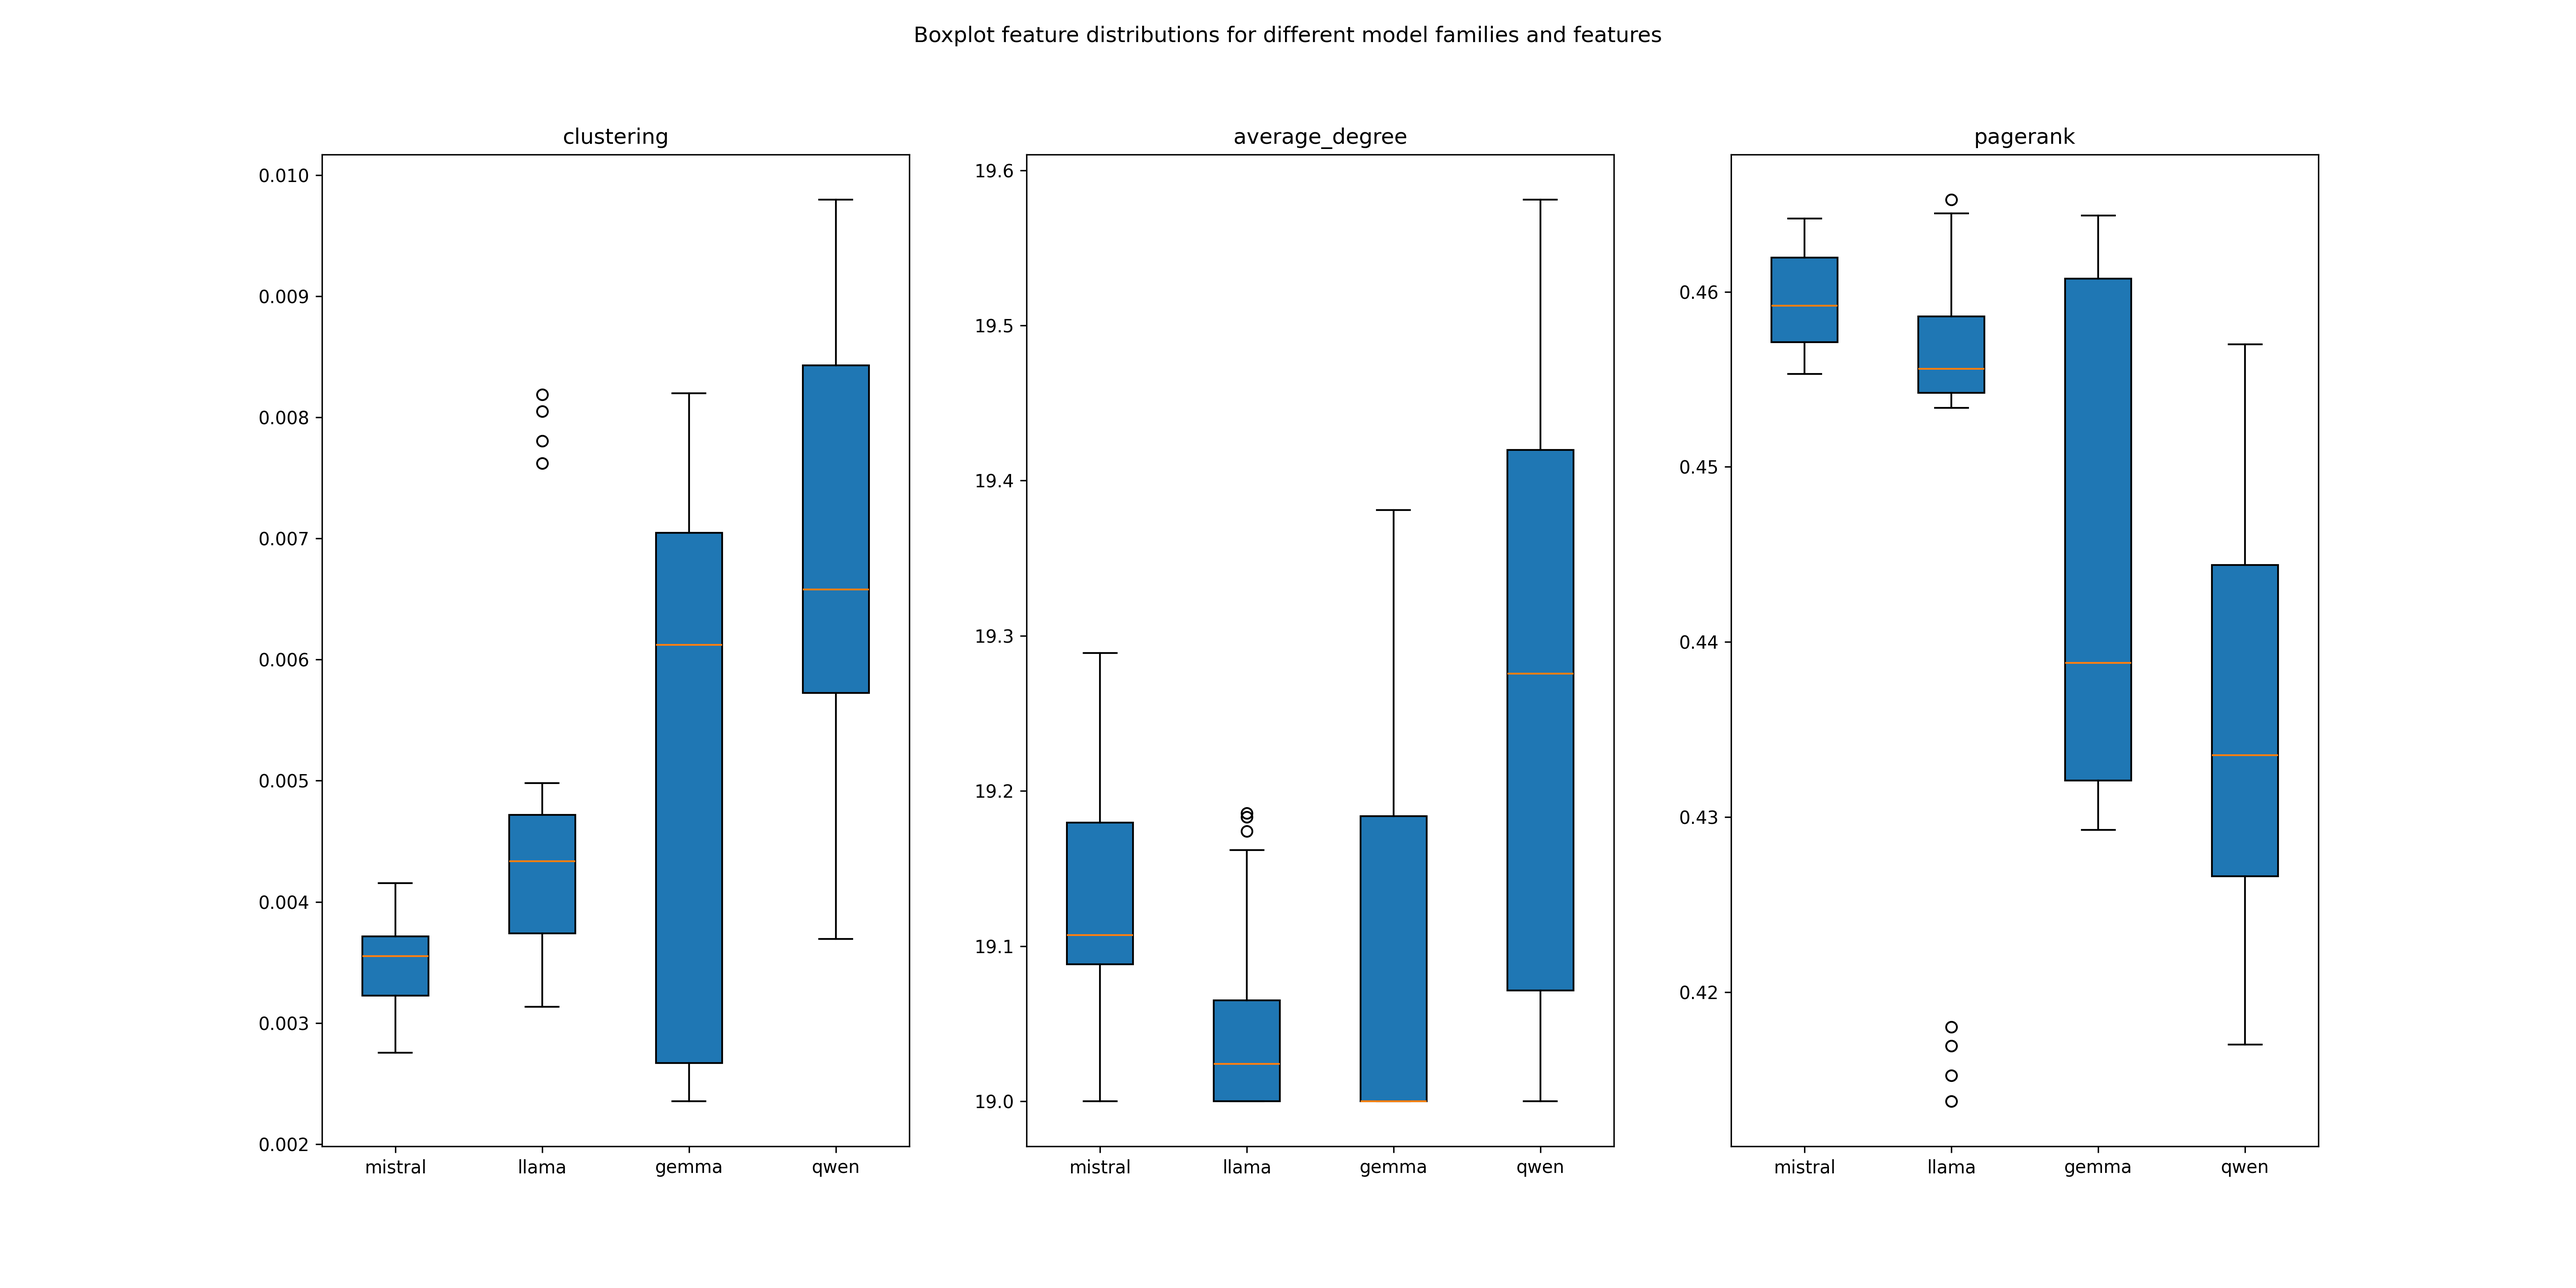
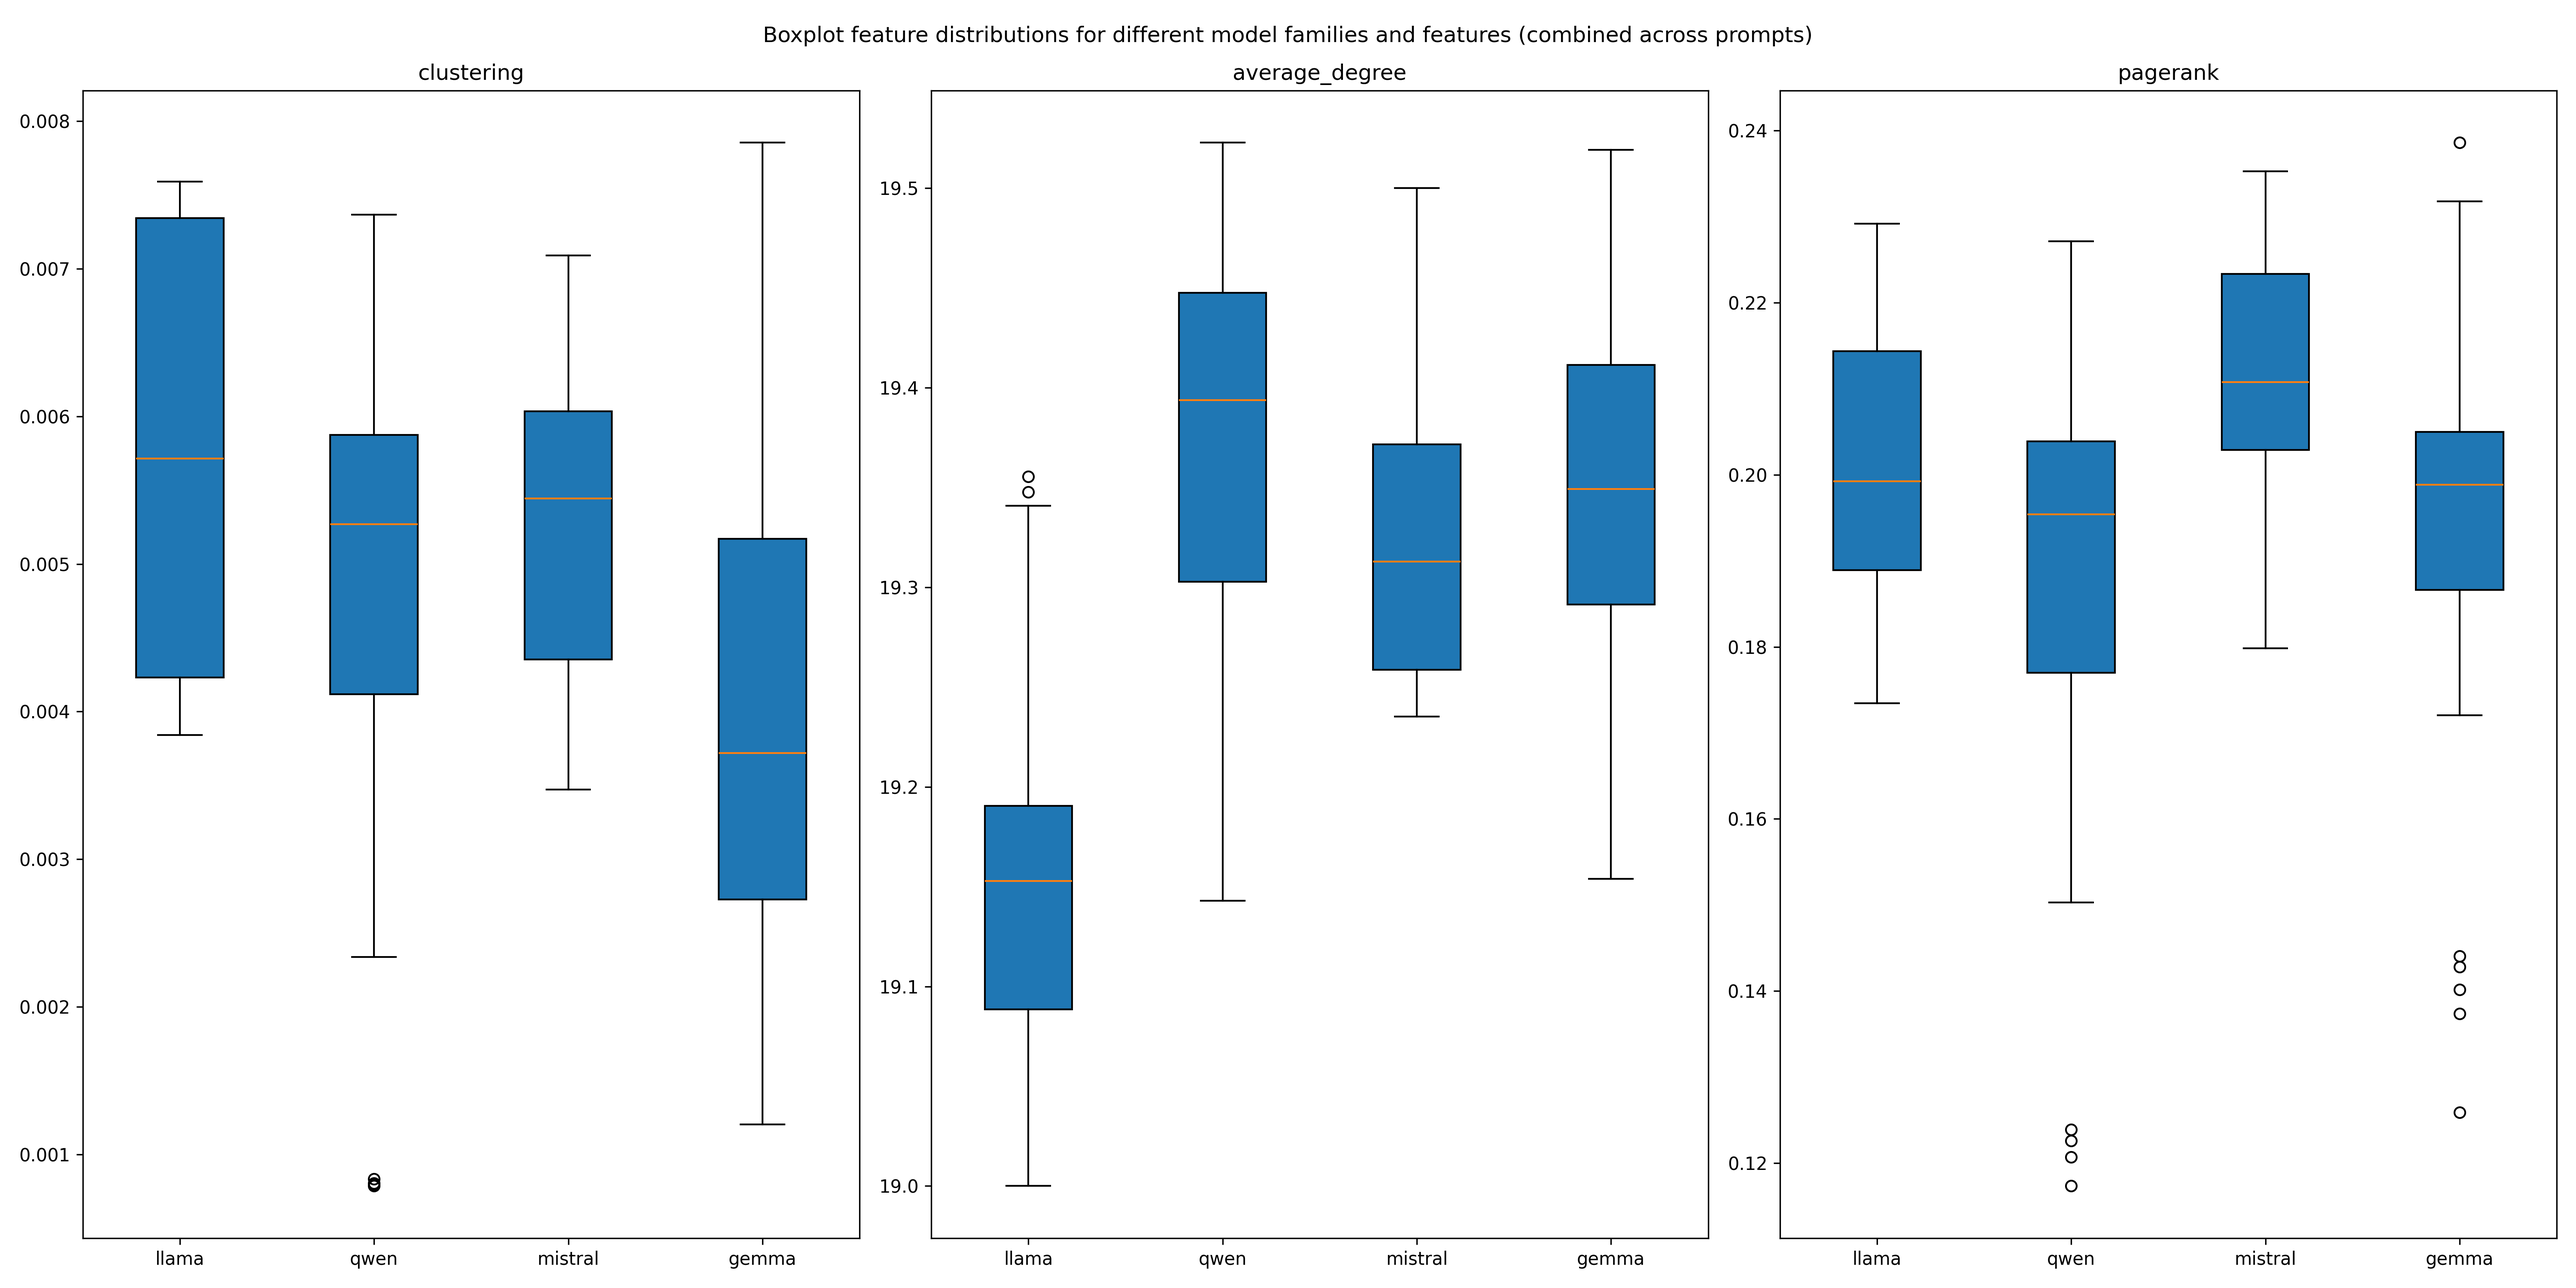
boxplot aggregated across prompts

diff --git a/src/feature_distribution_boxplot.py b/src/feature_distribution_boxplot.py
@@ -1,15 +1,8 @@
-
 import json
 import matplotlib.pyplot as plt
 import numpy as np
 import os
-import git
-
-
-def get_git_root():
-    repo = git.Repo('.', search_parent_directories=True)
-    return repo.git.rev_parse("--show-toplevel")
-
+from utils import get_git_root
 
 def get_model_family_from_name(model_name):
     return model_name.split('_')[0]
@@ -23,29 +16,37 @@ feature_names = [
 out_dir = os.path.join(get_git_root(), "families")
 os.makedirs(out_dir, exist_ok=True)
 
-with open(os.path.join(get_git_root(), "entropy/all_comparisons_2/prompt_1/features/features_top_k_20.json"), "r") as f:
-    results = json.load(f)
+# Read feature files from all prompts
+prompts = ['prompt_1', 'prompt_2', 'prompt_4']
+all_results = []
+for prompt in prompts:
+    feature_file = os.path.join(get_git_root(), f"results/average_compare_all_models/{prompt}/features/features_top_k_20.json")
+    with open(feature_file, "r") as f:
+        all_results.append(json.load(f))
 
+# Combine results from all prompts
+combined_results = {}
+for model_name in all_results[0].keys():
+    combined_results[model_name] = {feature: [] for feature in feature_names}
+    for results in all_results:
+        for feature_name in feature_names:
+            combined_results[model_name][feature_name].extend(results[model_name][feature_name])
 
 families = {'mistral', 'qwen', 'llama', 'gemma'}
 features_by_families = {feature_name: {family: [] for family in families} for feature_name in feature_names}
-for model_name in results.keys():
+
+for model_name in combined_results.keys():
     for feature_name in feature_names:
         model_family = get_model_family_from_name(model_name)
-        
-        features_by_families[feature_name][model_family].append(results[model_name][feature_name])
-
-
-for feature_name in feature_names:
-    for family in families:
-        features_by_families[feature_name][family] = [el for sublist in features_by_families[feature_name][family] for el in sublist] # flatten the list
+        features_by_families[feature_name][model_family].extend(combined_results[model_name][feature_name])
 
 fig, axs = plt.subplots(1, len(feature_names), figsize=(20, 10))
 for i, feature_name in enumerate(feature_names):
-    
-    axs[i].boxplot(features_by_families[feature_name].values(), patch_artist=True, labels=families)
+    data = [features_by_families[feature_name][family] for family in families]
+    axs[i].boxplot(data, patch_artist=True, labels=families)
     axs[i].set_title(feature_name)
 
-plt.suptitle("Boxplot feature distributions for different model families and features")
+plt.suptitle("Boxplot feature distributions for different model families and features (combined across prompts)")
+plt.tight_layout()
 plt.show()
 fig.savefig(os.path.join(out_dir, "families_feature_distributions.png"), dpi=300)
